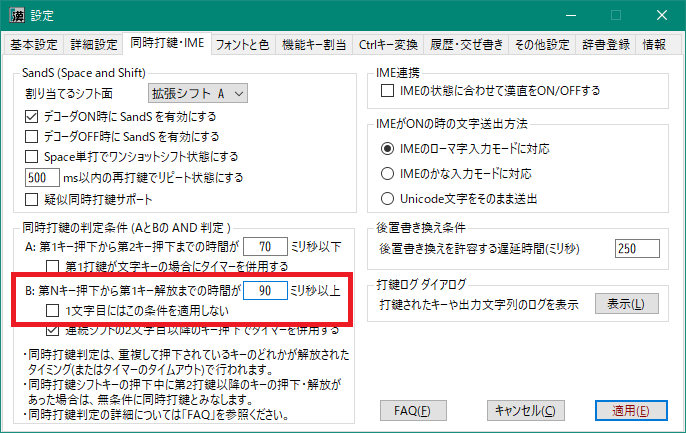
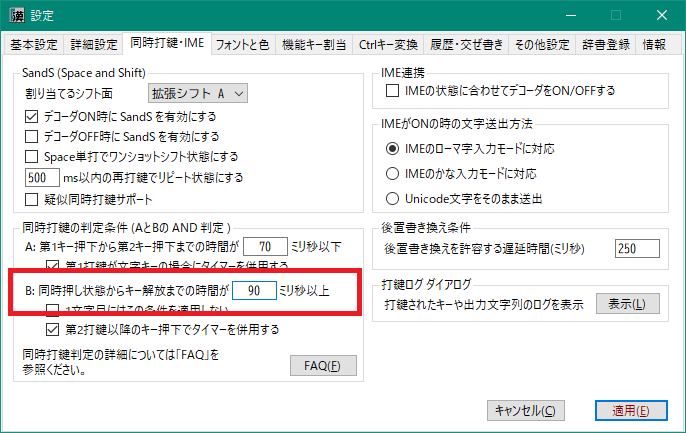
同時打鍵判定における条件Bの文言修正

diff --git a/KanchokuWS/Gui/DlgSettings.Designer.cs b/KanchokuWS/Gui/DlgSettings.Designer.cs
@@ -1874,9 +1874,9 @@ namespace KanchokuWS.Gui
             // 
             this.groupBox49.Controls.Add(this.label121);
             this.groupBox49.Controls.Add(this.button_showDlgStrokeLog);
-            this.groupBox49.Location = new System.Drawing.Point(361, 221);
+            this.groupBox49.Location = new System.Drawing.Point(366, 221);
             this.groupBox49.Name = "groupBox49";
-            this.groupBox49.Size = new System.Drawing.Size(302, 46);
+            this.groupBox49.Size = new System.Drawing.Size(297, 46);
             this.groupBox49.TabIndex = 5;
             this.groupBox49.TabStop = false;
             this.groupBox49.Text = "打鍵ログ ダイアログ";
@@ -1892,9 +1892,9 @@ namespace KanchokuWS.Gui
             // 
             // button_showDlgStrokeLog
             // 
-            this.button_showDlgStrokeLog.Anchor = ((System.Windows.Forms.AnchorStyles)((System.Windows.Forms.AnchorStyles.Bottom | System.Windows.Forms.AnchorStyles.Left)));
+            this.button_showDlgStrokeLog.Anchor = ((System.Windows.Forms.AnchorStyles)((System.Windows.Forms.AnchorStyles.Top | System.Windows.Forms.AnchorStyles.Right)));
             this.button_showDlgStrokeLog.Font = new System.Drawing.Font("Yu Gothic UI", 9F, System.Drawing.FontStyle.Regular, System.Drawing.GraphicsUnit.Point, ((byte)(128)));
-            this.button_showDlgStrokeLog.Location = new System.Drawing.Point(227, 15);
+            this.button_showDlgStrokeLog.Location = new System.Drawing.Point(223, 15);
             this.button_showDlgStrokeLog.Name = "button_showDlgStrokeLog";
             this.button_showDlgStrokeLog.Size = new System.Drawing.Size(66, 23);
             this.button_showDlgStrokeLog.TabIndex = 0;
@@ -1905,9 +1905,9 @@ namespace KanchokuWS.Gui
             // 
             // button_imeFAQ
             // 
-            this.button_imeFAQ.Anchor = ((System.Windows.Forms.AnchorStyles)((System.Windows.Forms.AnchorStyles.Bottom | System.Windows.Forms.AnchorStyles.Left)));
+            this.button_imeFAQ.Anchor = ((System.Windows.Forms.AnchorStyles)((System.Windows.Forms.AnchorStyles.Top | System.Windows.Forms.AnchorStyles.Right)));
             this.button_imeFAQ.Font = new System.Drawing.Font("Yu Gothic UI", 9F, System.Drawing.FontStyle.Regular, System.Drawing.GraphicsUnit.Point, ((byte)(128)));
-            this.button_imeFAQ.Location = new System.Drawing.Point(264, 134);
+            this.button_imeFAQ.Location = new System.Drawing.Point(276, 134);
             this.button_imeFAQ.Name = "button_imeFAQ";
             this.button_imeFAQ.Size = new System.Drawing.Size(69, 23);
             this.button_imeFAQ.TabIndex = 5;
@@ -1920,9 +1920,9 @@ namespace KanchokuWS.Gui
             // 
             this.groupBox48.Controls.Add(this.textBox_preRewriteAllowedDelayTimeMs);
             this.groupBox48.Controls.Add(this.label99);
-            this.groupBox48.Location = new System.Drawing.Point(361, 164);
+            this.groupBox48.Location = new System.Drawing.Point(366, 164);
             this.groupBox48.Name = "groupBox48";
-            this.groupBox48.Size = new System.Drawing.Size(302, 51);
+            this.groupBox48.Size = new System.Drawing.Size(297, 51);
             this.groupBox48.TabIndex = 4;
             this.groupBox48.TabStop = false;
             this.groupBox48.Text = "後置書き換え条件";
@@ -1931,7 +1931,7 @@ namespace KanchokuWS.Gui
             // 
             this.textBox_preRewriteAllowedDelayTimeMs.Anchor = ((System.Windows.Forms.AnchorStyles)((System.Windows.Forms.AnchorStyles.Top | System.Windows.Forms.AnchorStyles.Right)));
             this.textBox_preRewriteAllowedDelayTimeMs.Font = new System.Drawing.Font("BIZ UDゴシック", 9F, System.Drawing.FontStyle.Regular, System.Drawing.GraphicsUnit.Point, ((byte)(128)));
-            this.textBox_preRewriteAllowedDelayTimeMs.Location = new System.Drawing.Point(248, 19);
+            this.textBox_preRewriteAllowedDelayTimeMs.Location = new System.Drawing.Point(243, 19);
             this.textBox_preRewriteAllowedDelayTimeMs.Name = "textBox_preRewriteAllowedDelayTimeMs";
             this.textBox_preRewriteAllowedDelayTimeMs.Size = new System.Drawing.Size(45, 19);
             this.textBox_preRewriteAllowedDelayTimeMs.TabIndex = 1;
@@ -1960,7 +1960,7 @@ namespace KanchokuWS.Gui
             this.groupBox39.Controls.Add(this.checkBox_SandSEnabled);
             this.groupBox39.Location = new System.Drawing.Point(7, 9);
             this.groupBox39.Name = "groupBox39";
-            this.groupBox39.Size = new System.Drawing.Size(344, 149);
+            this.groupBox39.Size = new System.Drawing.Size(351, 149);
             this.groupBox39.TabIndex = 0;
             this.groupBox39.TabStop = false;
             this.groupBox39.Text = "SandS (Space and Shift)";
@@ -2063,9 +2063,9 @@ namespace KanchokuWS.Gui
             this.groupBox47.Controls.Add(this.radioButton_imeSendInputInUnicode);
             this.groupBox47.Controls.Add(this.radioButton_imeSendInputInKana);
             this.groupBox47.Controls.Add(this.radioButton_imeSendInputInRoman);
-            this.groupBox47.Location = new System.Drawing.Point(361, 60);
+            this.groupBox47.Location = new System.Drawing.Point(366, 60);
             this.groupBox47.Name = "groupBox47";
-            this.groupBox47.Size = new System.Drawing.Size(302, 98);
+            this.groupBox47.Size = new System.Drawing.Size(297, 98);
             this.groupBox47.TabIndex = 3;
             this.groupBox47.TabStop = false;
             this.groupBox47.Text = "IMEがONの時の文字送出方法";
@@ -2124,7 +2124,7 @@ namespace KanchokuWS.Gui
             this.groupBox45.Controls.Add(this.label117);
             this.groupBox45.Location = new System.Drawing.Point(7, 164);
             this.groupBox45.Name = "groupBox45";
-            this.groupBox45.Size = new System.Drawing.Size(342, 163);
+            this.groupBox45.Size = new System.Drawing.Size(351, 163);
             this.groupBox45.TabIndex = 1;
             this.groupBox45.TabStop = false;
             this.groupBox45.Text = "同時打鍵の判定条件 (AとBの AND 判定 )";
@@ -2132,7 +2132,7 @@ namespace KanchokuWS.Gui
             // textBox_combinationKeyTimeMs
             // 
             this.textBox_combinationKeyTimeMs.Font = new System.Drawing.Font("BIZ UDゴシック", 9F, System.Drawing.FontStyle.Regular, System.Drawing.GraphicsUnit.Point, ((byte)(128)));
-            this.textBox_combinationKeyTimeMs.Location = new System.Drawing.Point(230, 61);
+            this.textBox_combinationKeyTimeMs.Location = new System.Drawing.Point(219, 61);
             this.textBox_combinationKeyTimeMs.Name = "textBox_combinationKeyTimeMs";
             this.textBox_combinationKeyTimeMs.Size = new System.Drawing.Size(45, 19);
             this.textBox_combinationKeyTimeMs.TabIndex = 2;
@@ -2142,7 +2142,7 @@ namespace KanchokuWS.Gui
             // label120
             // 
             this.label120.AutoSize = true;
-            this.label120.Location = new System.Drawing.Point(274, 63);
+            this.label120.Location = new System.Drawing.Point(263, 63);
             this.label120.Name = "label120";
             this.label120.Size = new System.Drawing.Size(58, 15);
             this.label120.TabIndex = 19;
@@ -2210,9 +2210,9 @@ namespace KanchokuWS.Gui
             this.label116.AutoSize = true;
             this.label116.Location = new System.Drawing.Point(9, 63);
             this.label116.Name = "label116";
-            this.label116.Size = new System.Drawing.Size(223, 15);
+            this.label116.Size = new System.Drawing.Size(211, 15);
             this.label116.TabIndex = 1;
-            this.label116.Text = "B: 第Nキー押下から第1キー解放までの時間が";
+            this.label116.Text = "B: 同時押し状態からキー解放までの時間が";
             // 
             // label114
             // 
@@ -2235,9 +2235,9 @@ namespace KanchokuWS.Gui
             // groupBox46
             // 
             this.groupBox46.Controls.Add(this.checkBox_imeCooperationEnabled);
-            this.groupBox46.Location = new System.Drawing.Point(361, 9);
+            this.groupBox46.Location = new System.Drawing.Point(366, 9);
             this.groupBox46.Name = "groupBox46";
-            this.groupBox46.Size = new System.Drawing.Size(302, 45);
+            this.groupBox46.Size = new System.Drawing.Size(297, 45);
             this.groupBox46.TabIndex = 2;
             this.groupBox46.TabStop = false;
             this.groupBox46.Text = "IME連携";

diff --git a/KanchokuWS/CombinationKeyStroke/DeterminerLib/StrokeList.cs b/KanchokuWS/CombinationKeyStroke/DeterminerLib/StrokeList.cs
@@ -190,7 +190,7 @@ namespace KanchokuWS.CombinationKeyStroke.DeterminerLib
                     }
                 }
             } else if (Settings.CombinationKeyMinOverlappingTimeMs <= 0) {
-                // 2文字目以降も即時判定の場合
+                // 2文字目以降または3キー以上の同時押し状態で、即時判定の場合
                 if (comboList.Count >= 1 && unprocList.Count == 1) {
                     // 2文字目以降のケース
                     logger.DebugH("Try second or later successive combo");
@@ -541,6 +541,7 @@ namespace KanchokuWS.CombinationKeyStroke.DeterminerLib
         }
 
         // タイミングによる同時打鍵判定関数
+        // result: 0: 判定OK, 1:1文字目チェックNG, 2:2文字目チェックNG
         private int isCombinationTiming(List<Stroke> list, Stroke tailStk, DateTime dtNow, bool bSecondComboCheck)
         {
             logger.DebugH(() => $"list={list._toString()}, tailStk={tailStk.DebugString()}, bSecondComboCheck={bSecondComboCheck}");
@@ -566,7 +567,7 @@ namespace KanchokuWS.CombinationKeyStroke.DeterminerLib
                     // 非単打シフトキーがまだ解放されずに残っていたら同時打鍵と判定する
                     logger.DebugH(() => $"RESULT2={result == 0}: bSecondComboCheck && ALIVE SHIFT Key found");
                 } else {
-                    // シフトキーが解放されている(または単打可能キーのみ)ので、最後のキー押下時刻との差分を求め、タイミング判定する
+                    // シフトキーが解放されている(または単打可能キーのみである)ので、最後のキー押下時刻との差分を求め、タイミング判定する
                     double ms2 = tailStk.TimeSpanMs(dtNow);
                     result = ms2 >= Settings.CombinationKeyMinOverlappingTimeMs ? 0 : 2;
                     logger.DebugH(() => $"RESULT2={result == 0}: ms2={ms2:f2}ms >= threshold={Settings.CombinationKeyMinOverlappingTimeMs}ms (Timing={result})");

diff --git a/KanchokuWS/Settings.cs b/KanchokuWS/Settings.cs
@@ -564,7 +564,7 @@ namespace KanchokuWS
         /// <summary>同時打鍵判定を行う際の、第１打鍵に許容する最大のリード時間(ミリ秒)<br/>第２打鍵までにこの時間より長くかかったら、第1打鍵は同時とみなさない</summary>
         public static int CombinationKeyMaxAllowedLeadTimeMs { get; set; } = 0;
 
-        /// <summary>同時打鍵とみなす重複時間<br/>第２打鍵DOWNから第１打鍵UPまで重複時間がここで設定した時間(millisec)以上なら、同時打鍵とみなす</summary>
+        /// <summary>同時打鍵とみなす重複時間<br/>Nキー同時押しの状態からどれかのキーUPまで重複時間がここで設定した時間(millisec)以上なら、同時打鍵とみなす</summary>
         public static int CombinationKeyMinOverlappingTimeMs { get; set; } = 70;
 
         /// <summary>２文字目以降についてのみ同時打鍵チェックを行う</summary>
